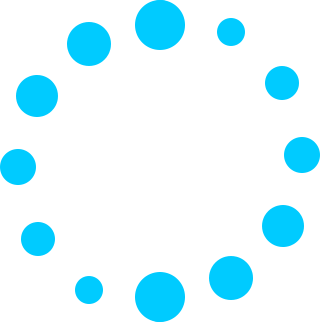
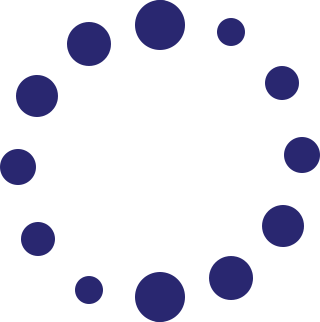
希望是完美版本

diff --git a/src/pages/my-about/index.vue b/src/pages/my-about/index.vue
@@ -1,7 +1,7 @@
 <template>
   <div class="container">
     <scroll-view scroll-y class="article-view">
-      <img mode="widthFix" src="https://gw.alicdn.com/tfs/TB1T_WPn9zqK1RjSZFLXXcn2XXa-640-1530.png">
+      <img mode="widthFix" src="../../assets/aboutus.png">
     </scroll-view>
   </div>
 </template>
@@ -9,28 +9,23 @@
 <script>
 export default {
   data() {
-    return {
-
-    };
+    return {};
   },
 
   components: {},
 
-  methods: {
-
-  },
+  methods: {},
 
   created() {},
-  mounted() {
-  }
+  mounted() {}
 };
 </script>
 
 <style scoped lang="less">
-.article-view{
+.article-view {
   width: 100%;
 }
-img{
+img {
   width: 100%;
 }
 </style>

diff --git a/src/pages/index/index.vue b/src/pages/index/index.vue
@@ -12,7 +12,7 @@
         <img src="https://gw.alicdn.com/tfs/TB1gqFKmHvpK1RjSZFqXXcXUVXa-91-101.png" v-else>
       </div>
       <div class="index-tab-item icon-scan" @click="bindTab('../scan/main')">
-        <img src="https://gw.alicdn.com/tfs/TB1gWBKmHvpK1RjSZFqXXcXUVXa-91-101.png" alt>
+        <img src="../../assets/scan.png" alt>
       </div>
       <div class="index-tab-item icon-audio" @click="playAudio">
         <img

diff --git a/src/pages/scan/index.vue b/src/pages/scan/index.vue
@@ -389,7 +389,7 @@ img {
     animation: spin 6s linear infinite;
   }
   .text {
-    color: #00cbff;
+    color: #292770;
     font-size: 60rpx;
     line-height: 120rpx;
     margin-bottom: 30rpx;
